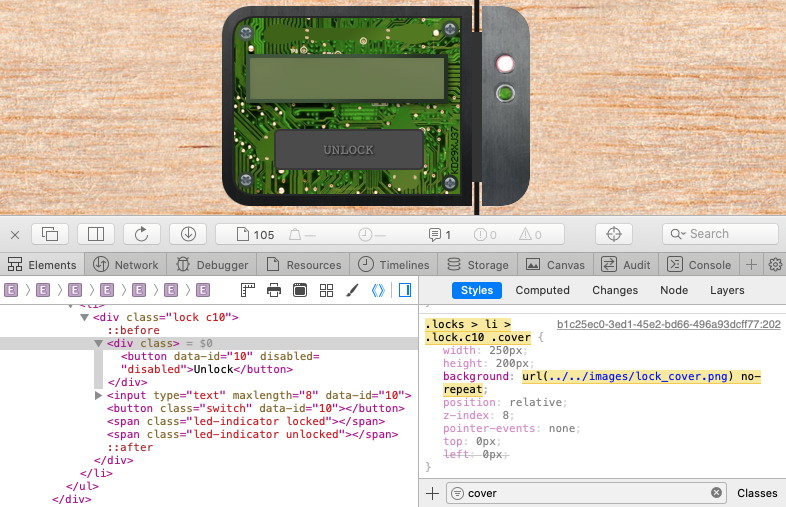
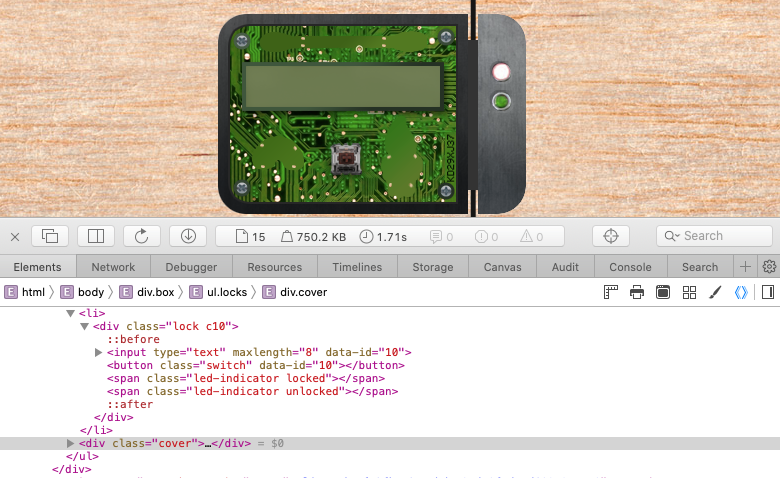
c12 done. Cleanup.

diff --git a/docs/challenges/c12.md b/docs/challenges/c12.md
@@ -1,2 +1,161 @@
 # Filter Out Poisoned Data Sources
+**Hint**: [Wunorse Openslae - Zeek JSON Analysis](../hints/h12.md)
 
+## Request
+> Use the data supplied in the [Zeek JSON logs](https://downloads.elfu.org/http.log.gz) to identify the IP addresses of attackers poisoning Santa's flight mapping software. [Block the 100 offending sources](https://srf.elfu.org/) of information to guide Santa's sleigh through the attack.  
+> Submit the Route ID ("RID") success value that you're given.  
+> For hints on achieving this objective, please visit the Sleigh Shop and talk with Wunorse Openslae.
+
+## Resources
+- [Zeek JSON logs](https://downloads.elfu.org/http.log.gz)
+- [Parsing Zeek JSON Logs with JQ](https://pen-testing.sans.org/blog/2019/12/03/parsing-zeek-json-logs-with-jq-2)
+- [Sleigh Route Finder API](https://srf.elfu.org/)
+- [Local File Inclusion (LFI)](https://www.owasp.org/index.php/Testing_for_Local_File_Inclusion)
+- [Cross-Site Scripting (XSS)](https://www.owasp.org/index.php/Cross-site_Scripting_(XSS))
+- [SQL Injection (SQLi)](https://www.owasp.org/index.php/SQL_Injection)
+- [ShellShock](https://en.wikipedia.org/wiki/Shellshock_(software_bug))
+
+## Solution
+Before diving into the [Zeek JSON logs](https://downloads.elfu.org/http.log.gz) and finding all the bad activity we first need log in to the [Sleigh Route Finder API](https://srf.elfu.org/) website. The [Super Sled-O-Matic quick-start guide](../files/ElfUResearchLabsSuperSledOMaticQuickStartGuideV1.2.pdf) provides information on where we can find the login credentials, stating *"The default login credentials should be changed on startup and can be found in the readme in the ElfU Research Labs git repository."*
+
+Git readme files are typically named `README.md` so search the logs for that particular string.
+
+```shell
+cat http.log | jq '.[] | select(.uri|test("README")) | select(.status_code==200)'
+```
+
+![README.md Location](../img/challenges/c12/c12_1.png)
+
+Download [`README.md`](https://srf.elfu.org/README.md). The default admin credentials are `admin 924158F9522B3744F5FCD4D10FAC4356`.
+
+![README.md Location](../img/challenges/c12/c12_2.png)
+
+Now that we have access to the Sleigh Route Finder API we can start going through the logs to find all the IP addresses responsible for the bad activity. Wunorse tells us we might want to look for [LFI](https://www.owasp.org/index.php/Testing_for_Local_File_Inclusion), [XSS](https://www.owasp.org/index.php/Cross-site_Scripting_(XSS)), [SQLi](https://www.owasp.org/index.php/SQL_Injection), and [Shellshock](https://en.wikipedia.org/wiki/Shellshock_(software_bug)). Remember to search more than just the `uri` field for these exploits. `host`, `user_agent`, and `username` can also contain interesting artifacts. Let's kick things off with [Local File Inclusion (LFI)](https://www.owasp.org/index.php/Testing_for_Local_File_Inclusion). To keep things clean the output is limited to just the source IP and the field being searched.
+
+```shell
+jq -j '.[] | select(.uri|contains("../")) | ."id.orig_h", "\t", .uri, "\n"' http.log
+jq -j '.[] | select(.uri|test(".*=.*passwd.*")) | ."id.orig_h", "\t", .uri, "\n"' http.log
+```
+
+![LFI](../img/challenges/c12/c12_3.png)
+
+We have our first set of 11 bad IPs. Moving on to [SQL Injection (SQLi)](https://www.owasp.org/index.php/SQL_Injection).
+
+```shell
+jq -j '.[] | select(.uri|contains("UNION")) | ."id.orig_h", "\t", .uri, "\n"' http.log
+jq -j '.[] | select(.user_agent|contains("UNION")) | ."id.orig_h", "\t", .user_agent, "\n"' http.log
+jq -j '.[] | select(.username|contains("1=1")) | ."id.orig_h", "\t", .username, "\n"' http.log
+```
+
+![SQLi](../img/challenges/c12/c12_4.png)
+
+29 results. Quite the haul! Next up, [Shellshock](https://en.wikipedia.org/wiki/Shellshock_(software_bug)).
+
+```shell
+jq -j '.[] | select(.user_agent|contains(":;")) | ."id.orig_h", "\t", .user_agent, "\n"' http.log
+```
+
+![Shellshock](../img/challenges/c12/c12_5.png)
+
+6 additional IPs. Last but not least, [Cross-Site Scripting (XSS)](https://www.owasp.org/index.php/Cross-site_Scripting_(XSS)).
+
+```shell
+jq -j '.[] | select(.host|contains("<")) | ."id.orig_h", "\t", .host, "\n"' http.log
+jq -j '.[] | select(.uri|contains("<")) | ."id.orig_h", "\t", .uri, "\n"' http.log
+```
+
+![Cross-Site Scripting](../img/challenges/c12/c12_6.png)
+
+With the XSS results we now have a total of 62 IP addresses. Not enough to cover all of the malicious traffic unfortunately. To find more IPs we need to use information from the current set and match those with other, less obvious log entries. Take a look at the User-Agent strings for the [IP addresses](../files/IPs_bad.csv) we found so far.
+
+```shell
+cat IPs_bad.csv | cut -d$'\t' -f 1,5 | grep -vEi '.*UNION|:;.*'
+```
+
+![User-Agent](../img/challenges/c12/c12_7.png)
+
+While not all of these jump out as suspicious, a few definitely do. The below [Python script](../scripts/match_user_agents.py.md) takes 2 CSV files with `id.orig_h`, `host`, `username`, `uri`, and `user_agent` fields from the Zeek logs as input. One log containing only the bad IPs and the other containing everything. If we find more than 3 matches for a specific IP address (i.e. more than 2 additional values) then chances are we're including legitimate traffic so we ignore those just to be on the safe side.
+
+```python
+#!/usr/bin/env python3
+"""Find matching user_agent strings."""
+
+
+def main():
+    """Execute."""
+    file_bad = 'IPs_bad.csv'
+    file_all = 'IPs_all.csv'
+    list_bad = []
+    list_all = []
+
+    # Read the full data log
+    with open(file_all) as fp:
+        line = fp.readline()
+
+        while line:
+            list_all.append(line.split('\t'))
+            line = fp.readline()
+
+    # Read the bad IP data and match on user_agent but only
+    # keep the results if less than 4 matches are found.
+    with open(file_bad) as fp:
+        line = fp.readline()
+
+        while line:
+            tmp = []
+            line_bad = line.split('\t')
+
+            for line_all in list_all:
+                if line_all[4] == line_bad[4]:
+                    tmp.append(line_all[0])
+
+            # Only add if less than 4 matches
+            if len(tmp) < 4:
+                list_bad.extend(tmp)
+
+            # Add the original IP as well
+            list_bad.append(line_bad[0])
+            line = fp.readline()
+
+    # Remove duplicates
+    list_bad = list(dict.fromkeys(list_bad))
+
+    # Tadaaaaa!
+    print(f'Found {len(list_bad)} IPs: {",".join(list_bad)}')
+
+
+if __name__ == "__main__":
+    main()
+```
+
+![Bad IPs](../img/challenges/c12/c12_8.png)
+
+We only have 97 IPs, but let's give it a shot anyway. Take the CSV data and deny it on the [SRF firewall](https://srf.elfu.org/home.html#contact).
+
+![IPs Blocked](../img/challenges/c12/c12_9.png)
+
+The RID seems to be made up of 2 dates, 08-07-1985 and 08-26-1964, but I'm not sure what they signify. Enter the Bell Tower and meet up with Santa, Krampus, and the Tooth Fairy. In the top left corner you'll also find a [final note](../misc/interesting_ui.md#jack-frost-kringlecon-3). Roll credits!
+
+![Bell Tower](../img/challenges/c12/c12_10.png)
+
+## Answer
+RID: `0807198508261964` 
+
+## Hint
+> Krampus:  
+> Congratulations on a job well done!  
+> Oh, by the way, I won the Frido Sleigh contest.  
+> I got 31.8% of the prizes, though I'll have to figure that out.  
+>  
+> Santa:  
+> You did it! Thank you! You uncovered the sinister plot to destroy the holiday season!  
+> Through your diligent efforts, we’ve brought the Tooth Fairy to justice and saved the holidays!  
+> Ho Ho Ho!  
+> The more I laugh, the more I fill with glee.  
+> And the more the glee,  
+> The more I'm a merrier me!  
+> Merry Christmas and Happy Holidays.  
+>  
+> The Tooth Fairy:  
+> You foiled my dastardly plan! I’m ruined!  
+> And I would have gotten away with it too, if it weren't for you meddling kids!

diff --git a/docs/challenges/c11.md b/docs/challenges/c11.md
@@ -1,5 +1,5 @@
 # Open the Sleigh Shop Door
-**Hint**: [Kent Tinseltooth - "Smart Braces"](../hints/h11.md)
+**Hint**: [Kent Tinseltooth - Smart Braces](../hints/h11.md)
 
 ## Request
 > Psst - hey!  
@@ -105,15 +105,15 @@ Select each `chakra` class and set it to active to reveal the code in between th
 ### Lock 10
 **Riddle**: *Oh, no! This lock's out of commission! Pop off the cover and locate what's missing.*
 
-Unlike the previous 9 locks this one can't be solved with one or two clicks. Start by removing the `cover` class from the div which will uncover, pun intended, the inside of the lock. In the bottom right hand corner, vertically, and in small print is the code `KD29XJ37`.
+Unlike the previous 9 locks this one requires a little more work to solve. Start by dragging the `cover` div outside of the lock to uncover, pun intended, the circuitry. Removing the `cover` class from the div works as well but the drag option results in a cooler visual. In the bottom right hand corner, vertically, and in small print you'll find `KD29XJ37`.
 
 ![Lock 10 Inside](../img/challenges/c11/c11_10.png)
 
-Try entering the code and be greeted with an error in the JavaScript console, stating 'Error: Missing Macaroni!'. The problem is there's three different classes, `macaroni` being one of them, missing on the div that previously had the `cover` class enabled.
+Try entering the code and be greeted with an error in the JavaScript console, stating 'Error: Missing Macaroni!'. The problem is there's three different components, `macaroni` being one of them, missing inside the lock div.
 
 ![Obfuscated JavaScript](../img/challenges/c11/c11_11.png)
 
-We will need to deobfuscate the JavaScript code to better understand what exactly it's trying to check inside of that `try/catch` block. One option is to use the developer tools JavaScript console to evaluate small pieces of the code. For example, entering `_0x3170('0x56')` in the console will print "Missing macaroni!". Rinse and repeat until the code becomes more readable.
+Taking the long route, deobfuscate the JavaScript code to better understand what exactly it's trying to check inside of that `try/catch` block. One option is to use the developer tools JavaScript console to evaluate small pieces of the code. For example, entering `_0x3170('0x56')` in the console will print "Missing macaroni!". Rinse and repeat until the code becomes more readable.
 
 ![Deobfuscating JavaScript](../img/challenges/c11/c11_12.png)
 
@@ -140,12 +140,13 @@ try {
 }
 ```
 
-It appears that the three component, defined as CSS classes, we're missing on this lock are `macaroni`, `swab`, and `gnome`. You will find 3 divs  containing each of the required classes spread around the DOM. Fix things by dragging all of them inside of the lock div and you'll be able to open this final lock using the code `KD29XJ37`.
+It appears that the three components, defined as CSS classes, we're missing on this lock are `macaroni`, `swab`, and `gnome`. You will find 3 divs containing each of the required classes spread around the DOM. Fix things by dragging all of them inside of the lock div and you'll be able to open this final lock using the code `KD29XJ37`. Alternatively you can replace the `cover` class with `component macaroni swab gnome` and add a `data-code` parameter with a random value to the same div, but like before you'll miss out on some funny visuals.
 
 ![Lock 10](../img/challenges/c11/c11_13.png)
-![Note](../img/challenges/c11/c11_14.png)
 
-Say whaaaaaa?! The Tooth Fairy is behind all of this madness?
+Once all 10 locks have been opened the page displays Shinny Upatree's note. 
+
+![Note](../img/challenges/c11/c11_14.png)
 
 ## Answer
 Villain's name : `The Tooth Fairy`

diff --git a/docs/challenges/c10.md b/docs/challenges/c10.md
@@ -1,5 +1,5 @@
 # Recover Cleartext Document
-**Hint**: [Holly Evergreen - "Mongo Pilfer"](../hints/h10.md)
+**Hint**: [Holly Evergreen - Mongo Pilfer](../hints/h10.md)
 
 ## Request
 > The [Elfscrow Crypto](https://downloads.elfu.org/elfscrow.exe) tool is a vital asset used at Elf University for encrypting SUPER SECRET documents.  
@@ -135,7 +135,7 @@ The correct key is found on attempt 4850 which tells us the file was encrypted o
 
 ![PDF Cover](../img/challenges/c10/c10_7.png)
 
-Sweet! [Super Sled-O-Matic quick-start guide v1.2](../files/ElfUResearchLabsSuperSledOMaticQuickStartGuideV1.2.pdf) successfully decrypted! Someone needs to have a serious talk with Santa and explain to him that ElfScrow version 1.01 is in urgent need of an update though. Way too much DES and PRNG shenanigans and I'd have some serious reservations slapping my name on the whole 'the only encryption trusted by Santa!' tagline if I were him. Anyway, the five words in the middle of the cover read 'Machine Learning Sleigh Route Finder'.
+Sweet! [Super Sled-O-Matic quick-start guide v1.2](../files/ElfUResearchLabsSuperSledOMaticQuickStartGuideV1.2.pdf) successfully decrypted! Someone needs to have a serious talk with Santa and explain to him that ElfScrow version 1.01 is in urgent need of an update though. Way too much DES and PRNG shenanigans and I'd have some serious reservations slapping my name on the whole 'the only encryption trusted by Santa!' tagline if I were him.
 
 ## Answer
 Middle line on the cover page: `Machine Learning Sleigh Route Finder`

diff --git a/docs/hints/h10.md b/docs/hints/h10.md
@@ -1,4 +1,4 @@
-# Holly Evergreen - "Mongo Pilfer"
+# Holly Evergreen - Mongo Pilfer
 ![Holly Evergreen](../img/hints/h10/holly_evergreen.png){: .elf_avatar}
 
 **Challenge**: [Recover Cleartext Document](../challenges/c10.md)
@@ -18,21 +18,19 @@
 ## Solution
 First determine the port that MongoDB is listening on by executing `ps ax`.
 
-![Processes](../img/hints/h10/h10_terminal1_win.png)
+![Processes](../img/hints/h10/h10_terminal1.png)
 
 Next, connect to MongoDB using `mongo 127.0.0.1:12121 --quiet` and list all databases with `show databases`.
 
 ![Show Databases](../img/hints/h10/h10_terminal2.png)
 
-Open the 'elfu' database with `use elfu` and show the available collections by issuing the command `show collections`. The 'solution' collection seems a likely candidate to contain quiz answers so use `db.solution.find()` to list its documents.
+Open the 'elfu' database with `use elfu` and show the available collections by issuing the command `show collections`. The 'solution' collection seems a likely candidate to contain quiz answers. Use `db.solution.find()` to list its documents.
 
 ![Show Collections](../img/hints/h10/h10_terminal3.png)
 
-Run `db.loadServerScripts();displaySolution();` as instructed.
+Now run `db.loadServerScripts();displaySolution();` as instructed.
 
-![Run Command](../img/hints/h10/h10_terminal4.png)
-
-Awesome! All quizzes can now be graded! Oh, wait...
+![Run Command](../img/hints/h10/h10_terminal4_everyone.png)
 
 ## Answer
 See [solution](#solution).

diff --git a/docs/scripts.md b/docs/scripts.md
@@ -1,7 +1,7 @@
 # Scripts
 
 ## find_code.py
-**Purpose**: generate valid [keypad codes](../hints/h6.md)
+**Purpose**: generate access codes for the [Frosty Keypad](../hints/h6.md) hint.
 
 ```python
 #!/usr/bin/env python3
@@ -37,7 +37,7 @@ if __name__ == "__main__":
 ```
 
 ## capteha_api.py
-**Purpose**: bypass the [Frido Sleigh CAPTEHA](../challenges/c8.md)
+**Purpose**: bypass the CAPTHEHA in the [Bypassing the Frido Sleigh CAPTEHA](../challenges/c8.md) challenge
 
 ```python
 #!/usr/bin/env python3
@@ -255,7 +255,7 @@ if __name__ == "__main__":
 ```
 
 ## token_proxy.py
-**Purpose**: translate [token responses](../challenges/c9.md) for sqlmap
+**Purpose**: translate tokens for the [Retrieve the Scraps of Paper from Server](../challenges/c9.md) challenge.
 
 ```python
 #!/usr/bin/env python3
@@ -286,7 +286,7 @@ if __name__ == '__main__':
 ```
 
 ## decrypt_pdf.py
-**Purpose**: decrypt [ElfUResearchLabsSuperSledOMaticQuickStartGuideV1.2.pdf.enc](../challenges/c10.md)
+**Purpose**: decrypt the PDF in the [Recover Cleartext Document](../challenges/c10.md) challenge.
 
 ```python
 #!/usr/bin/env python3
@@ -373,7 +373,7 @@ if __name__ == "__main__":
 ```
 
 ## match_user_agents.py
-**Purpose**: find IP addresses by [matching user agent strings](../challenges/c12.md)
+**Purpose**: find additional IP addresses in the [Filter Out Poisoned Data Sources](../challenges/c12.md) challenge.
 
 ```python
 #!/usr/bin/env python3

diff --git a/docs/challenges/c7.md b/docs/challenges/c7.md
@@ -1,5 +1,5 @@
 # Get Access to the Steam Tunnels
-**Hint**: [Minty Candycane - "Holiday Hack Trail"](../hints/h7.md)
+**Hint**: [Minty Candycane - Holiday Hack Trail](../hints/h7.md)
 
 ## Request
 > Gain access to the steam tunnels.  
@@ -35,11 +35,9 @@ Use the key grinder in Minty's dorm room, enter `122520` for the cuts, and giggl
 
 ![Key Grinder](../img/challenges/c7/c7_6.png)
 
-Download the `122520.png` file and use it on the lock in the dorm room closet. A hidden door will open, revealing a message on the wall that reads 'This is it'. Follow the steam tunnels to meet up with the mysterious figure you first saw running away in Minty's room.
+Download the `122520.png` file and use it on the lock in the dorm room closet. A hidden door will open, revealing a message on the wall that reads 'This is it'. Follow the steam tunnels to meet up with the mysterious figure you first saw running away in Minty's room. He'll introduce himself as Krampus Hollyfeld and explain why he borrowed Jane and Michael.
 
 ![Steam Tunnels](../img/challenges/c7/c7_7.png)
-
-He'll introduce himself as Krampus Hollyfeld and explain why he borrowed Jane and Michael.
 
 ## Answer
 Who took the doves: `Krampus Hollyfeld`

diff --git a/docs/misc/interesting_ui.md b/docs/misc/interesting_ui.md
@@ -110,7 +110,7 @@ If you're like me and thought that white pile in the top right corner of the Elf
 
 ![Letter](../img/misc/letter.png)
 
-The final entry of the narrative, the `.narrativeCliffHanger` CSS class for the final narrative entry, as well as the [final note](https://downloads.elfu.org/LetterOfWintryMagic.pdf) you find in the top left corner of the Elf University Bell Tower all hint at what might be in store for next year's KringleCon event. Jack Frost was apparently helping the Tooth Fairy. Cliff hanger indeed!
+The final entry of the narrative, the `.narrativeCliffHanger` CSS class for the final narrative entry, as well as the [final note](https://downloads.elfu.org/LetterOfWintryMagic.pdf) you find in the top left corner of the Elf University Bell Tower all hint at what might be in store for next year's KringleCon event. Jack Frost was apparently helping the Tooth Fairy. Ho-ho-ho-holy cliffhanger, Batman!
 
 > This Christmas must now fall asleep,  
 > But next year comes, and troubles creep.  

diff --git a/docs/hints/h7.md b/docs/hints/h7.md
@@ -1,4 +1,4 @@
-# Minty Candycane - "Holiday Hack Trail"
+# Minty Candycane - Holiday Hack Trail
 ![Minty Candycane](../img/hints/h7/minty_candycane.png){: .elf_avatar}
 
 **Challenge**: [Get Access to the Steam Tunnels](../challenges/c7.md)
@@ -33,8 +33,6 @@ Now press the `Go` button.
 
 ![We Won](../img/hints/h7/h7_terminal4.png)
 
-Tadaaaa! *"Your party has succeeded!"*
-
 ### Medium
 Solving the challenge on 'medium' really isn't all that different. Instead of manipulating the `distance` in the URL we now change the `distance` value in the HTML body. Click on `medium`, then click the `buy` button, open up your browser's developer tools, and edit the value of the input tag named `distance`.
 
@@ -43,8 +41,6 @@ Solving the challenge on 'medium' really isn't all that different. Instead of ma
 Press the `Go` button.
 
 ![We Won](../img/hints/h7/h7_terminal6.png)
-
-And once again, *"Your party has succeeded!"*
 
 ## Answer
 - Easy: change the `distance` parameter in the URL.

diff --git a/docs/challenges/c9.md b/docs/challenges/c9.md
@@ -1,5 +1,5 @@
 # Retrieve the Scraps of Paper from Server
-**Hint**: [Pepper Minstix - "Graylog"](../hints/h9.md)
+**Hint**: [Pepper Minstix - Graylog](../hints/h9.md)
 
 ## Request
 > Gain access to the data on the [Student Portal](https://studentportal.elfu.org/) server and retrieve the paper scraps hosted there.  
@@ -111,8 +111,6 @@ sqlmap -u "https://studentportal.elfu.org/application-check.php?elfmail=McElfin%
 Well that looks pretty promising. Download the PNG files from the Student Portal and reassemble them using an image editor.
 
 ![Letter](../img/challenges/c9/letter.png)
-
-Looks we're still missing an important piece of the letter which could help identify our attacker and solve this whole mystery, but at least we now know the name of Santa's cutting-edge sleigh guidance system, `Super Sled-o-matic`.
 
 ## Answer
 Sleigh guidance system name: `Super Sled-o-matic`

diff --git a/docs/challenges/c8.md b/docs/challenges/c8.md
@@ -1,5 +1,5 @@
 # Bypassing the Frido Sleigh CAPTEHA
-**Hint**: [Alabaster Snowball - "Nyanshell"](../hints/h8.md)
+**Hint**: [Alabaster Snowball - Nyanshell](../hints/h8.md)
 
 ## Request
 > Help Krampus beat the [Frido Sleigh contest](https://fridosleigh.com/).  
@@ -134,8 +134,6 @@ The remainder of Krampus' `capteha_api.py` script submits the list of UUIDs and,
 ![CAPTEHA Bypassed](../img/challenges/c8/c8_2.png)
 ![Server Response](../img/challenges/c8/c8_3.png)
 ![Email](../img/challenges/c8/c8_4.png)
-
-Looks like our winning Frido Sleigh Continuous Cookie Contest code is `8Ia8LiZEwvyZr2WO`.
 
 ## Answer
 Email code: `8Ia8LiZEwvyZr2WO`

diff --git a/docs/challenges/c4.md b/docs/challenges/c4.md
@@ -1,5 +1,5 @@
 # Determine Attacker Technique
-**Hint**: [SugarPlum Mary - "Linux Path"](../hints/h4.md)
+**Hint**: [SugarPlum Mary - Linux Path](../hints/h4.md)
 
 ## Request
 > Using these [normalized Sysmon logs](https://downloads.elfu.org/sysmon-data.json.zip), identify the tool the attacker used to retrieve domain password hashes from the lsass.exe process. For hints on achieving this objective, please visit Hermey Hall and talk with SugarPlum Mary.

diff --git a/docs/hints/h12.md b/docs/hints/h12.md
@@ -1,4 +1,4 @@
-# Wunorse Openslae - "Zeek JSON Analysis"
+# Wunorse Openslae - Zeek JSON Analysis
 ![Wunorse Openslae](../img/hints/h12/wunorse_openslae.png){: .elf_avatar}
 
 **Challenge**: [Filter Out Poisoned Data Sources](../challenges/c12.md)
